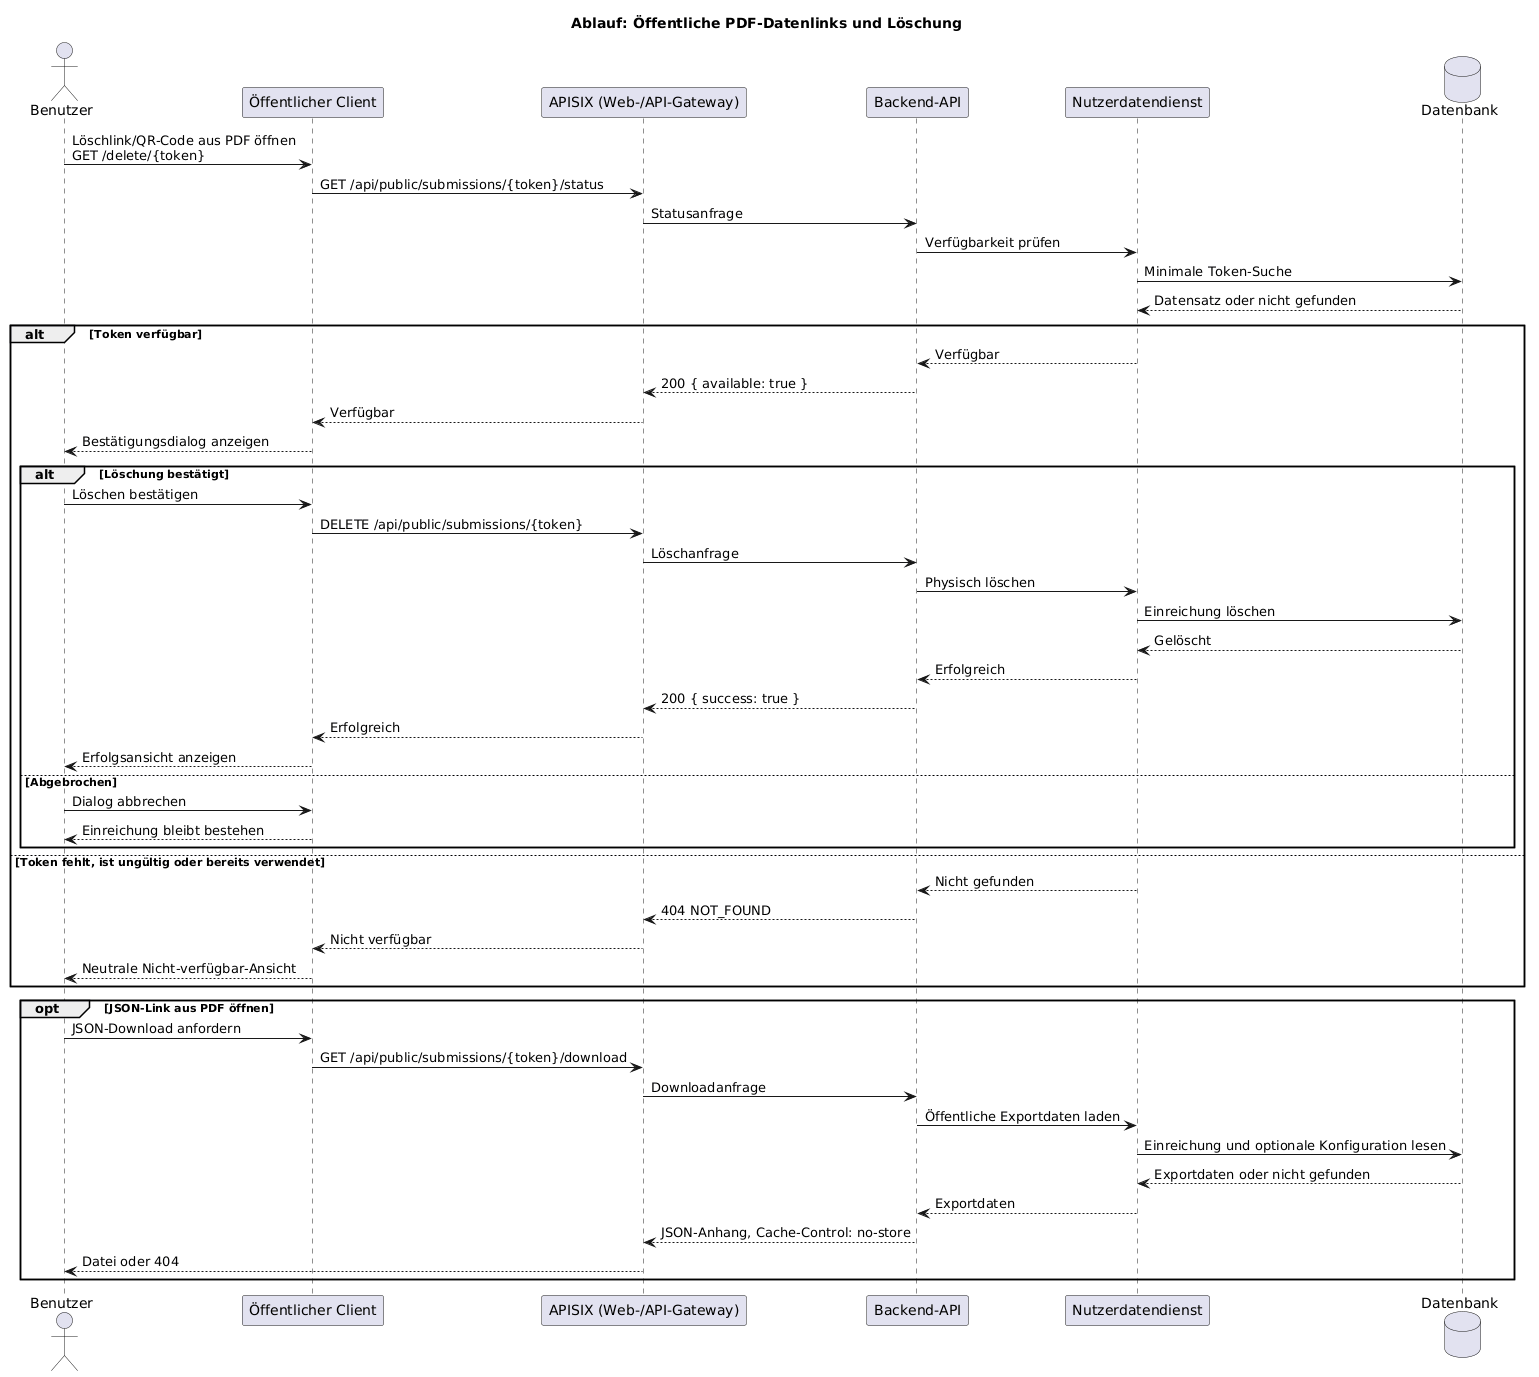
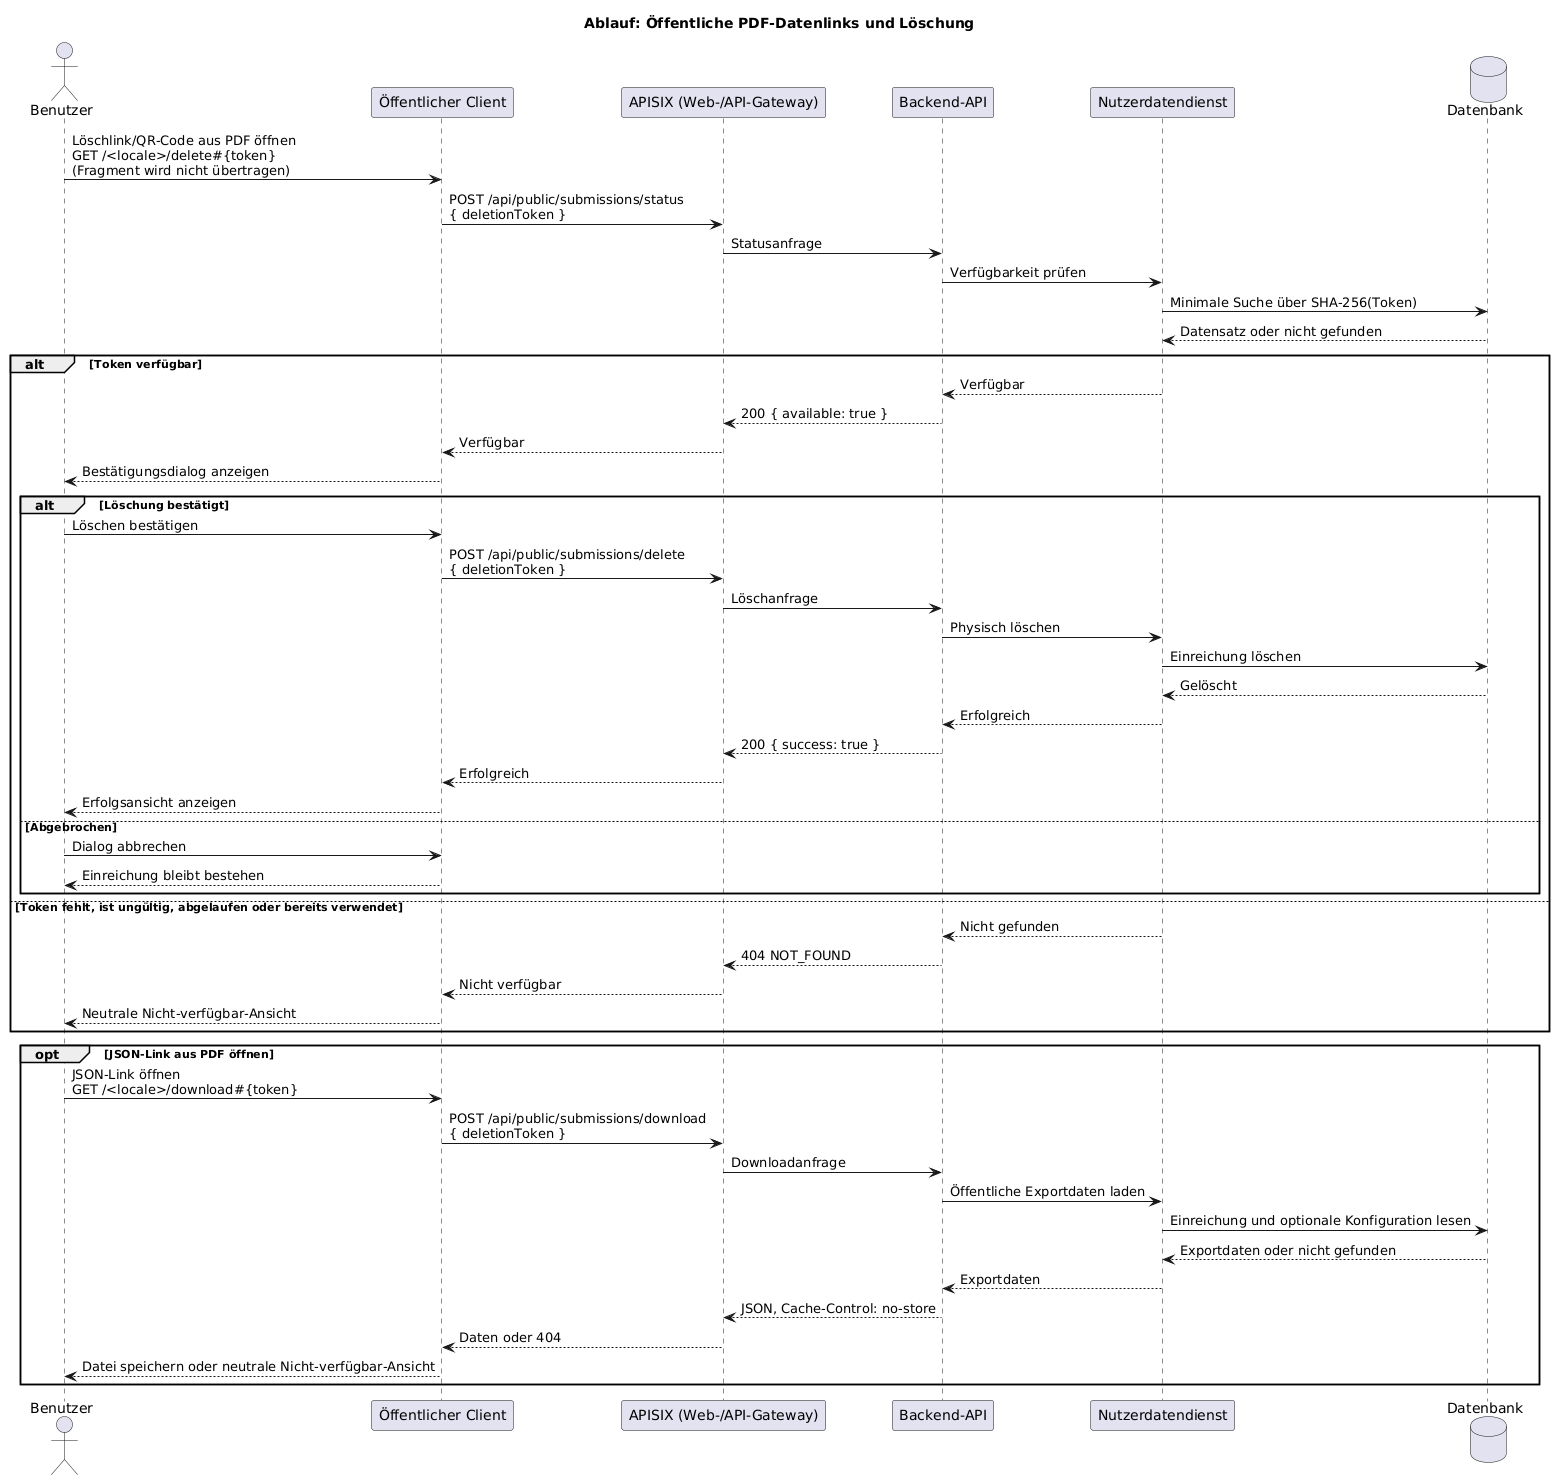
docs: described the hashed deletion token and its body and fragment transport

diff --git a/apps/backend/docs/architecture/09-runtime-flows-ops-view.md b/apps/backend/docs/architecture/09-runtime-flows-ops-view.md
@@ -68,10 +68,12 @@ Reduzierte Darstellung ohne zusätzliche Hinweise und Abhängigkeiten.
 Quelle: `raw/runtime-flow-pipeline-simple.puml`
 
 **Lösch-Flow (Public)**  
-Wenn ein Nutzer Ergebnisse freiwillig gespeichert hat, enthält das PDF einen Löschlink zur öffentlichen Client-Route sowie einen Link zum JSON-Download. Beide verwenden denselben zufälligen Capability-Token. Der Client prüft den Token mit einem nicht verändernden Statusabruf, zeigt bei Verfügbarkeit den Bestätigungsdialog und sendet erst nach ausdrücklicher Bestätigung die Löschung per HTTP `DELETE`. Das Backend liefert den JSON-Export als nicht cachebare Datei direkt aus den gespeicherten öffentlichen Einreichungsdaten.
+Wenn ein Nutzer Ergebnisse freiwillig gespeichert hat, enthält das PDF einen Löschlink zur öffentlichen Client-Route sowie einen Link zum JSON-Download. Beide verwenden denselben zufälligen Capability-Token, und zwar ausschließlich im URL-Fragment (`/<locale>/delete#<token>`, `/<locale>/download#<token>`), das der Browser nicht an Server sendet. Der Client überträgt den Token nur im JSON-Body von `POST`-Anfragen, sodass er in keinem Access-Log (Ingress, APISIX, nginx) steht. Die Datenbank speichert nur den SHA-256-Hash des Tokens. Der Client prüft den Token mit einem nicht verändernden Statusabruf, zeigt bei Verfügbarkeit den Bestätigungsdialog und sendet erst nach ausdrücklicher Bestätigung die Löschung. Das Backend liefert den JSON-Export als nicht cachebare Datei direkt aus den gespeicherten öffentlichen Einreichungsdaten.
 Beteiligte Komponenten: Public Client, Backend API, User Data Service, Datenbank.  
-Schritte: Löschlink öffnen → `GET /api/public/submissions/{token}/status` → Bestätigungsdialog → `DELETE /api/public/submissions/{token}` → atomare Anlage des zielreferenzfreien Audit-Ereignisses → Erfolgsansicht mit herunterladbarem Löschbeleg. Der Download der Einreichungsdaten erfolgt über `GET /api/public/submissions/{token}/download`; ein vorgelegter Löschbeleg kann über `POST /api/public/submissions/deletion-receipts/verify` geprüft werden.
-Fehlerpfade: Fehlende, ungültige und bereits verwendete Tokens ergeben ohne Unterscheidung `404`; sonstige Backendfehler bleiben als wiederholbare Fehler erkennbar. Ein Adressabgleich findet nicht statt.
+Schritte: Löschlink öffnen → `POST /api/public/submissions/status` → Bestätigungsdialog → `POST /api/public/submissions/delete` → atomare Anlage des zielreferenzfreien Audit-Ereignisses → Erfolgsansicht mit herunterladbarem Löschbeleg. Der JSON-Link öffnet die Client-Seite `/<locale>/download`, die die Einreichungsdaten über `POST /api/public/submissions/download` lädt; ein vorgelegter Löschbeleg kann über `POST /api/public/submissions/deletion-receipts/verify` geprüft werden.
+Altlinks: Vor der Umstellung ausgegebene PDFs enthalten den Token noch im Pfad (`/<locale>/delete/<token>`, `/api/public/submissions/<token>/download`). Beide bleiben gültig; nginx protokolliert die Löschpfade nicht, und die Löschseite verschiebt den Token sofort ins Fragment. Die veraltete `GET`-Download-Route ist nach einer Übergangsfrist zu entfernen; bis dahin erscheint ihr Pfad in Gateway-Logs.
+Ablauf: Mit `SUBMISSION_DELETION_TOKEN_TTL_DAYS` erhalten neue Tokens eine Ablauffrist; ohne den Wert und für Bestandsdaten gilt kein Ablauf.
+Fehlerpfade: Fehlende, ungültige, abgelaufene und bereits verwendete Tokens ergeben ohne Unterscheidung `404`; sonstige Backendfehler bleiben als wiederholbare Fehler erkennbar. Ein Adressabgleich findet nicht statt.
 
 ![runtime-flow-delete.png](./attachments/runtime-flow-delete.png)
 

diff --git a/apps/backend/docs/architecture/08-data-model-api-view.md b/apps/backend/docs/architecture/08-data-model-api-view.md
@@ -177,7 +177,7 @@ dokumentiert.
   neu berechnet.
 - **Input-Validation**: Eingangsgrößen werden gegen konfigurierte Grenzen geprüft
   (z.B. Wertebereiche wie 100–2000).
-- **Public Capability API**: Nach dem Speichern erhält der Client ausschließlich einen zufälligen Lösch-Token. Derselbe Token schützt die nicht verändernde Verfügbarkeitsprüfung, den vom Backend erzeugten JSON-Download und die physische Löschung per HTTP `DELETE`. Fehlende, ungültige und bereits verwendete Tokens sind als `404` nicht unterscheidbar; die frühere mutierende `GET`-Route entfällt. Nach erfolgreicher Löschung erhält der Client einen Löschbeleg, den er lokal herunterladen und später über `POST /api/public/submissions/deletion-receipts/verify` prüfen lassen kann.
+- **Public Capability API**: Nach dem Speichern erhält der Client einmalig einen zufälligen Lösch-Token (32 Byte, base64url); gespeichert wird nur dessen SHA-256-Hash (`deletionTokenHash`) und optional ein Ablaufzeitpunkt (`deletionTokenExpiresAt`, gesetzt über `SUBMISSION_DELETION_TOKEN_TTL_DAYS`). Derselbe Token schützt die nicht verändernde Verfügbarkeitsprüfung (`POST /api/public/submissions/status`), den vom Backend erzeugten JSON-Download (`POST …/download`) und die physische Löschung (`POST …/delete`). Der Token steht nur im Request-Body, nie in der URL; die veraltete Route `GET …/{token}/download` bleibt nur für bereits ausgegebene PDFs bestehen. Fehlende, ungültige, abgelaufene und bereits verwendete Tokens sind als `404` nicht unterscheidbar; die frühere mutierende `GET`-Route entfällt. Nach erfolgreicher Löschung erhält der Client einen Löschbeleg, den er lokal herunterladen und später über `POST /api/public/submissions/deletion-receipts/verify` prüfen lassen kann.
 - **Triage**: Stadtverwaltung / Fachpersonal prüft Datensätze auf Plausibilität, gibt sie intern frei oder lehnt sie ab. Eine tatsächliche Löschung erfolgt separat über die dafür vorgesehenen Delete-Endpunkte. Der Endpunkt für eine einzelne Einreichung löscht nur diese Einreichung; der Endpunkt für eine Gebäudegruppe prüft atomar, dass alle zugehörigen Einreichungen abgelehnt sind.
 - **Indexierung**: Aus verifizierten und triagierten Ergebnissen werden abgeleitete Basisdaten pro Gebäude erzeugt
   (z.B. für Vergleiche, Quartiersanalysen und Reports).

diff --git a/apps/backend/docs/system/05-datenschutzhinweise-public.md b/apps/backend/docs/system/05-datenschutzhinweise-public.md
@@ -225,9 +225,9 @@ Einreichungen werden bis [fachlich und rechtlich freigegebene Regelfrist ergänz
 
 ## 9. Löschung einer freiwilligen Einreichung
 
-Für jede gespeicherte Einreichung erzeugt das Backend einen zufälligen Lösch-Token. Der PDF-Bericht enthält den daraus erzeugten Link zur Löschseite. Die Löschung erfolgt zweistufig: Zuerst wird der zufällige Löschlink aufgerufen, anschließend muss die Löschung in einem Bestätigungsdialog ausdrücklich bestätigt werden.
+Für jede gespeicherte Einreichung erzeugt das Backend einen zufälligen Lösch-Token. Gespeichert wird nur ein daraus berechneter Prüfwert (SHA-256-Hash), nicht der Token selbst. Der PDF-Bericht enthält den Link zur Löschseite; der Token steht darin im URL-Fragment, das Ihr Browser nicht an Server überträgt. Die Löschung erfolgt zweistufig: Zuerst wird der zufällige Löschlink aufgerufen, anschließend muss die Löschung in einem Bestätigungsdialog ausdrücklich bestätigt werden.
 
-Die Löschseite wird vom Public-Frontend angezeigt. Sie prüft beim Backend ausschließlich, ob die Einreichung noch verfügbar ist, und zeigt erst dann den Bestätigungsdialog. Erst die ausdrückliche Bestätigung sendet eine Löschanfrage per HTTP `DELETE`; der vorherige Seiten- und Statusabruf verändert keine Daten. Fehlende, ungültige und bereits verwendete Tokens werden gleich behandelt. Ein zusätzlicher Adressabgleich findet nicht statt.
+Die Löschseite wird vom Public-Frontend angezeigt. Sie prüft beim Backend ausschließlich, ob die Einreichung noch verfügbar ist, und zeigt erst dann den Bestätigungsdialog. Erst die ausdrückliche Bestätigung sendet eine Löschanfrage; der vorherige Seiten- und Statusabruf verändert keine Daten. Fehlende, ungültige und bereits verwendete Tokens werden gleich behandelt. Ein zusätzlicher Adressabgleich findet nicht statt.
 
 Nach erfolgreicher Prüfung werden der Einreichungsdatensatz und daraus abgeleitete personenbezogene Gebäudedaten aus der Produktivdatenbank gelöscht. Zugehörige Sicherungskopien werden nach Ablauf des regulären Backupzyklus von [Frist ergänzen] überschrieben beziehungsweise gelöscht.
 

diff --git a/apps/backend/docs/system/03-security-concept.md b/apps/backend/docs/system/03-security-concept.md
@@ -207,7 +207,7 @@ Ein Status `⚠` bezeichnet eine vorhandene Umsetzung mit noch fehlendem voll
   - Das Backend protokolliert beim Start einmalig das Ereignis `analytics_config` mit dem Zustand `active`, `inactive` oder `invalid`, ohne Tracker-URL und Site-ID. `invalid` (nur eine der Variablen `MATOMO_URL`/`MATOMO_SITE_ID` gesetzt oder ungültige Site-ID) wird als `WARN` geloggt, weil die Webanalyse dann still abgeschaltet bleibt.
 - Audit-Logs für Admin-Aktionen inkl. Zeitstempel und Benutzerkennung.
 - Physische Löschungen erzeugen einen separaten, zielreferenzfreien Audit-Datensatz. Einreichungs-ID, Gebäude-ID, Adresse, Koordinaten und Lösch-Token werden dort nicht gespeichert. Die Zuordnung zu einer konkreten Löschung ist nur mit dem an den Aufrufer ausgegebenen vollständigen Löschbeleg möglich.
-- URL-Pfadparameter der Capability-Routen sind in Backend-, Gateway- und Webserver-Logs zu redigieren. Insbesondere darf der Lösch-Token nicht in zentralen Protokollen persistiert werden. Die konkrete Konfiguration der vorgelagerten CIVITAS/CORE-Komponenten ist vor Produktivsetzung zu bestätigen.
+- Der Lösch-Token darf nicht in zentralen Protokollen persistiert werden. Er wird deshalb nur im URL-Fragment und im Request-Body übertragen und in der Datenbank nur als SHA-256-Hash gespeichert. Für vor der Umstellung ausgegebene Links mit Token im Pfad schaltet nginx das Access-Log der Löschpfade ab; der Pfad der veralteten JSON-Download-Route ist in Gateway-Logs zu redigieren, bis sie entfernt wird. Die konkrete Konfiguration der vorgelagerten CIVITAS/CORE-Komponenten ist vor Produktivsetzung zu bestätigen.
 
 ---
 
